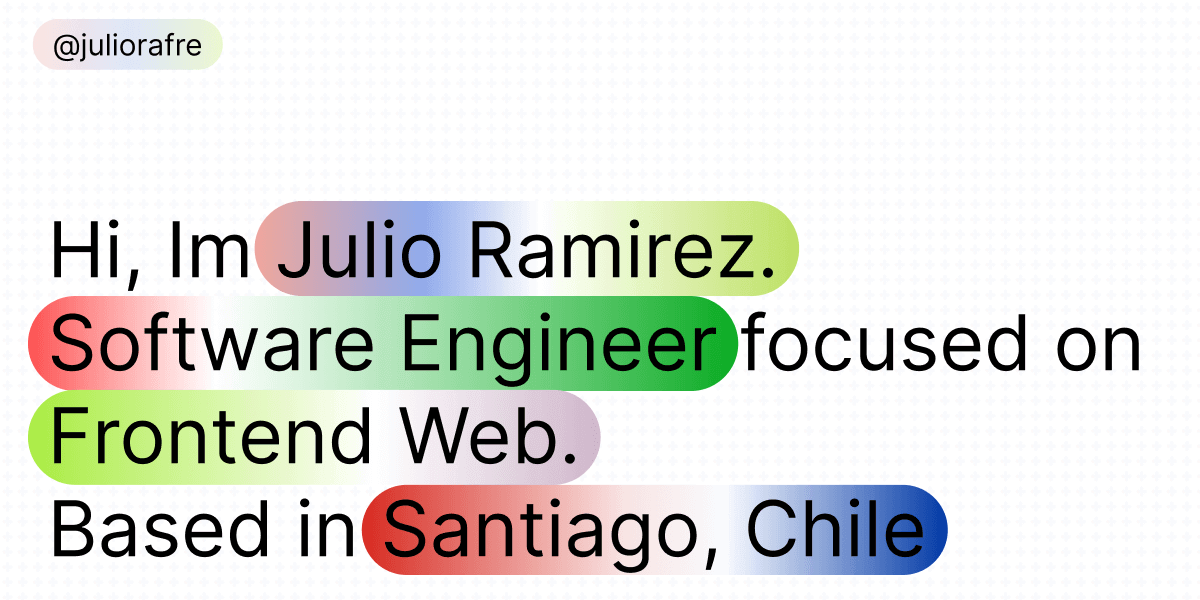
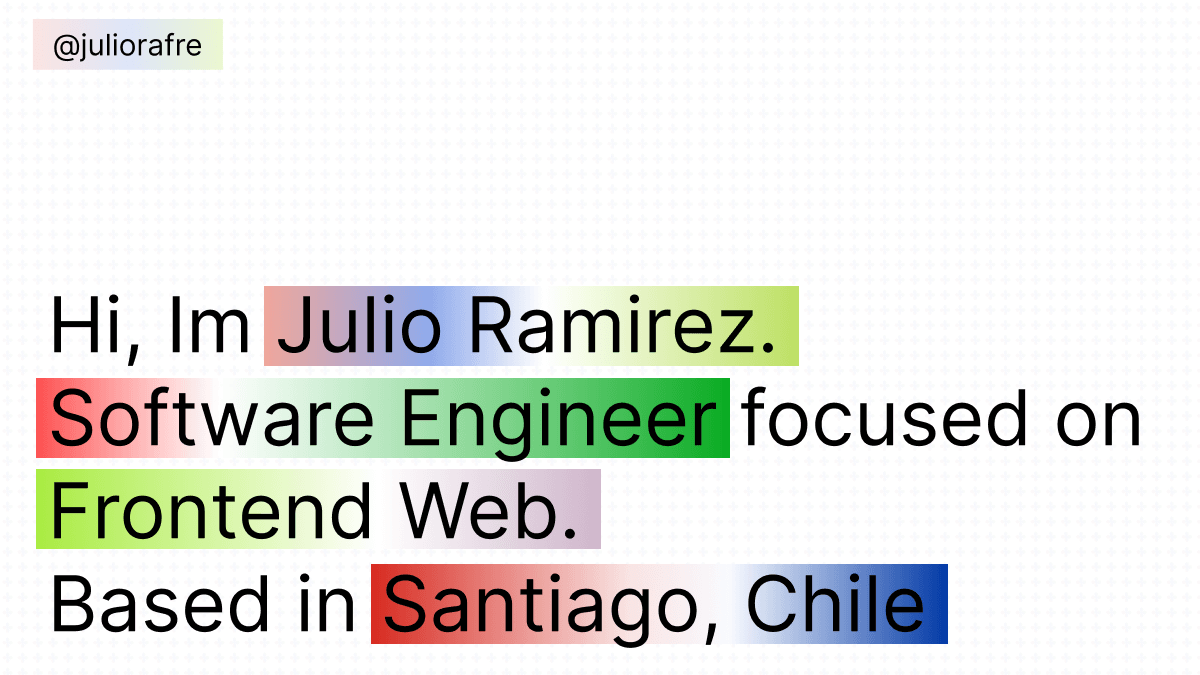
style: update time text size and adjust custom link styles

Changed region(s): [[0.0, 0.33, 0.9558, 0.96], [0.0308, 0.03, 0.185, 0.12]]

diff --git a/src/components/custom-link.tsx b/src/components/custom-link.tsx
@@ -14,7 +14,7 @@ type CustomLinkProps = Omit<ComponentPropsWithoutRef<'a'>, 'href'> &
 
 // Shared base styles
 const baseStyles = cn(
-  'relative inline gap-0.5 pr-1 pl-2 font-normal',
+  'relative inline gap-0.5 py-[0.3px] pr-1 pl-1.5 font-normal',
   'mt-0 bg-gradient-to-r from-[#efa79b]/30 via-[#90aaeb]/30 to-[#bde064]/30 text-black transition-colors duration-300',
   'md:hover:bg-gradient-to-r md:hover:from-[#efa79b] md:hover:via-[#90aaeb] md:hover:to-[#bde064] md:hover:text-black'
 );

diff --git a/src/app/page.tsx b/src/app/page.tsx
@@ -95,7 +95,7 @@ export default function Home() {
             <InfiniteCanvas />
           </div>
           <div className="order-2 flex flex-col">
-            <time className="text-muted-foreground text-base" dateTime="2025-05-24">
+            <time className="text-muted-foreground text-sm" dateTime="2025-05-24">
               May 20, 2025
             </time>
             <p className="text-base font-medium">Memories. (Infinite Canvas)</p>

diff --git a/src/components/rrss-link.tsx b/src/components/rrss-link.tsx
@@ -20,8 +20,7 @@ export function RRSSLink({ platform, href, className = '' }: RRSSLinkProps) {
   const { label } = platformConfig[platform];
   const isExternal = platform !== 'email';
 
-  const baseStyles =
-    'hover:text-foreground flex items-center hover:underline transition-all duration-300';
+  const baseStyles = 'text-black flex items-center hover:underline transition-all duration-300';
 
   return (
     <a
